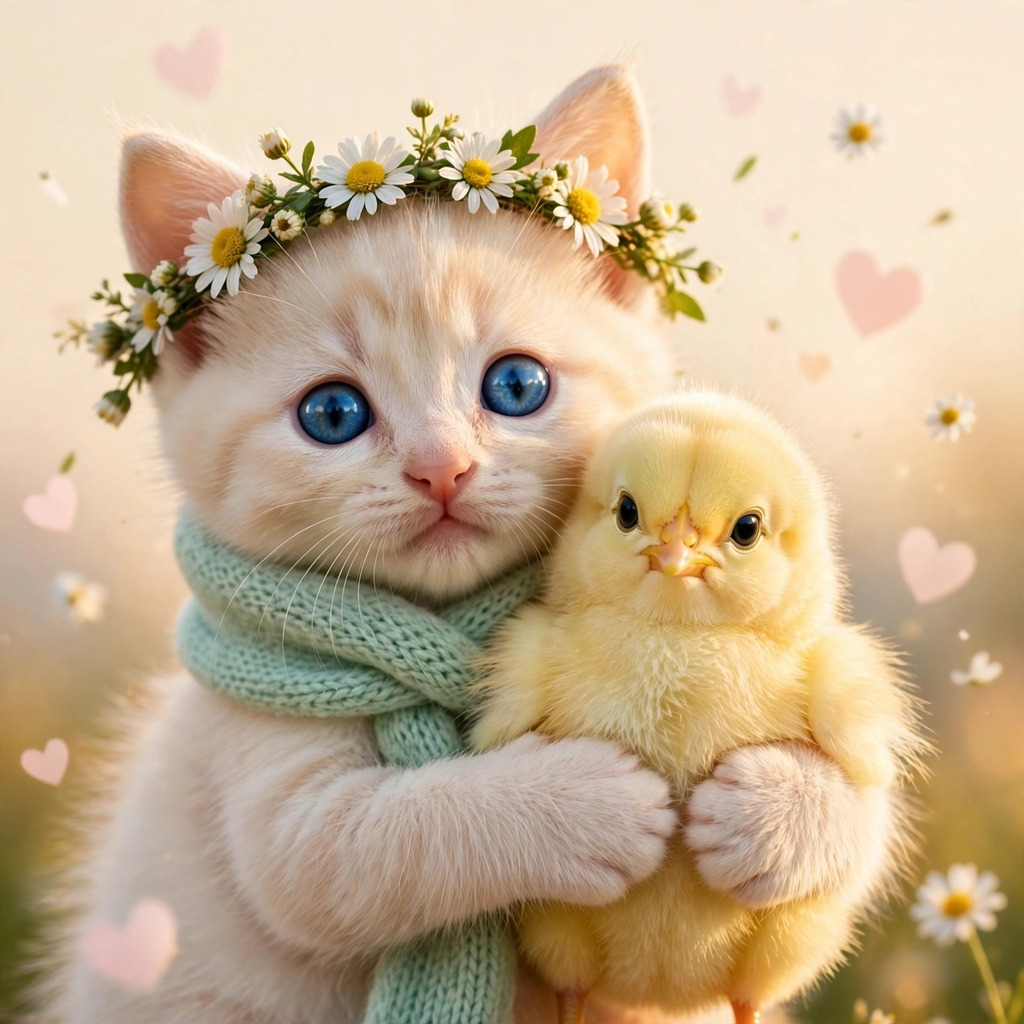
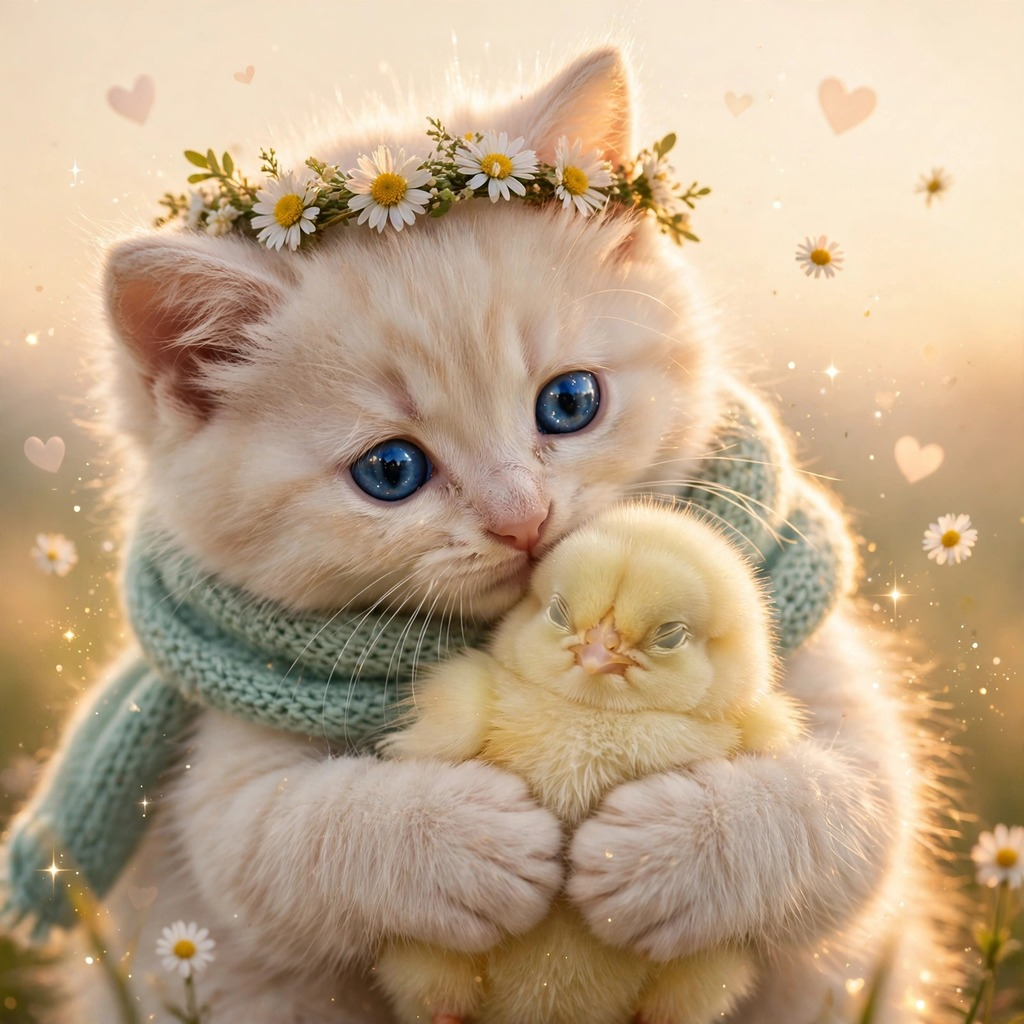
Switch entry image to cream kitten nuzzling a chick (blue eyes, mint scarf, daisy crown)

diff --git a/main.py b/main.py
@@ -4,15 +4,16 @@ Deterministic: reads the exact bytes of entry.png beside this file and
 writes them unchanged. No network, no randomness, no timestamps.
 Standard library only (Python 3.13).
 
-Note on the file: entry.png holds JPEG bytes (1024x1024, 198,134 bytes,
-sha256 53c6d9b0231a09715bd444e0107ae8df10ce913d44dbf824fde28d5d8f3b79b5). The
+Note on the file: entry.png holds JPEG bytes (1024x1024, 212,976 bytes,
+sha256 c147a003926103f36631348b8ed4f8aaf079969d304adef6d8d5c32ab31c3467). The
 competition tells PNG and JPEG apart by their first bytes and the name
 stays entry.png either way. JPEG is used because the same picture as PNG
 is ~1.3 MB, over the 1 MiB cap — and a smaller file wins an exact
 win-rate tie, so the compact encoding is strictly better here.
 
-The picture: a tiny cream kitten hugging a tiny yellow chick, both with
-huge sparkling blue eyes looking at the camera, the kitten wearing a mint
+The picture: a tiny cream kitten gently nuzzling a tiny yellow chick,
+the kitten's cheek pressed softly against the chick, both with huge
+sparkling blue eyes looking at the camera, the kitten wearing a mint
 scarf and a daisy flower crown, on a soft warm cream background with
 hearts and daisies.
 """
@@ -42,7 +43,8 @@ assert _sha256(SRC) == _sha256(dst), "output differs from bundled image"
 # (whole JPEG, at most 1 MiB, at most 1024x1024). Dimensions are read from
 # the JPEG SOF0/SOF2 marker with the standard library only.
 # (Source image was 1600x1600; resized to 1024x1024 at JPEG quality 92
-# before bundling, so the gate below always holds for this entry.)
+# before bundling, so the gate below always holds for this entry.
+# v3 image: tender-kiss frame, sha256 c147a003... — same resize path.)
 def _jpeg_dimensions(path):
     with open(path, "rb") as f:
         data = f.read()

diff --git a/README.md b/README.md
@@ -1,16 +1,17 @@
-# Cutest Picture — Cream Kitten Hugging a Chick
+# Cutest Picture — Cream Kitten Nuzzling a Chick
 
 Entry for make.fun's "Make the cutest picture" bounty (cutest-picture-01).
 
-A tiny cream kitten hugging a tiny yellow chick, both with huge sparkling
-blue eyes looking straight at the camera, the kitten wearing a mint scarf
-and a daisy flower crown, on a soft warm cream background with hearts and
-daisies. The leaderboard's proven top pattern (kitten hugging a chick,
-blue eyes, mint scarf) with a daisy crown added.
+A tiny cream kitten gently nuzzling a tiny yellow chick, the kitten's
+cheek pressed softly against the chick, both with huge sparkling blue
+eyes looking straight at the camera, the kitten wearing a mint scarf
+and a daisy flower crown, on a soft warm cream background with hearts
+and daisies. The leaderboard's proven top pattern (kitten hugging a
+chick, blue eyes, mint scarf) with a daisy crown and a tender nuzzle.
 
 ## How it works
 
-`main.py` copies the bundled `entry.png` (JPEG bytes, 1024×1024, 198,134 bytes)
+`main.py` copies the bundled `entry.png` (JPEG bytes, 1024×1024, 212,976 bytes)
 to `/output/entry.png` byte-for-byte. Deterministic: two runs write identical
 bytes. No network, no randomness, standard library only.
 
